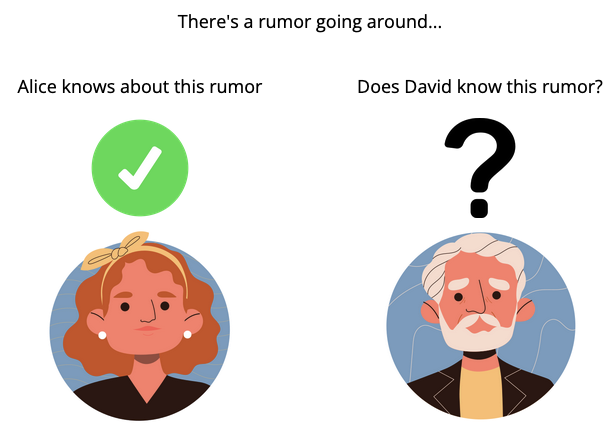
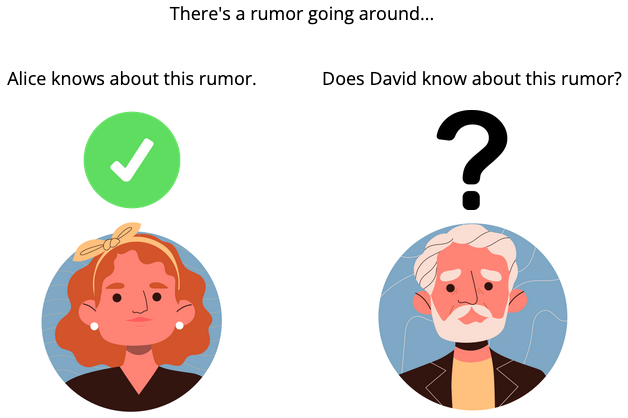
Updated instruction text

diff --git a/constants.js b/constants.js
@@ -4,12 +4,12 @@ const consentText = `<p class="consent-text" style="text-align: center"><strong>
 
 <p class="consent-text"><strong>TIME INVOLVEMENT:</strong> Your participation will take approximately 10 minutes.</p>
 
-<p class="consent-text"><strong>PAYMENTS:</strong> You will receive $1.70 as payment for your participation, as well as a bonus of up to $0.50 depending on your performance.</p>
+<p class="consent-text"><strong>PAYMENTS:</strong> You will receive $1.70 as payment for your participation, as well as a bonus of up to $0.40 depending on your performance.</p>
 
 <p class="consent-text"><strong>PRIVACY AND CONFIDENTIALITY:</strong> The risks associated with this study are minimal. Study data will be stored securely, in compliance with Stanford University standards, minimizing the risk of confidentiality breach. Your individual privacy will be maintained during the research and in all published and written data resulting from the study.</p>
 
 <p class="consent-text"><strong>CONTACT INFORMATION:</strong></p>
-<p class="consent-text"><emph>Questions:</emph> If you have any questions, concerns or complaints about this research, its procedures, risks and benefits, contact <strong>Ben Prystawski</strong> (<a href="mailto://benpry@stanford.edu">benpry@stanford.edu</a>) the Protocol Director, Noah Goodman (ngoodman@stanford.edu).</p>
+<p class="consent-text"><emph>Questions:</emph> If you have any questions, concerns or complaints about this research, its procedures, risks and benefits, contact <strong>Ben Prystawski</strong> (<a href="mailto://benpry@stanford.edu">benpry@stanford.edu</a>) or the Protocol Director, Noah Goodman (ngoodman@stanford.edu).</p>
 
 <p class="consent-text"><strong>Independent Contact:</strong> If you are not satisfied with how this study is being conducted, or if you have any concerns, complaints, or general questions about the research or your rights as a participant, please contact the Stanford Institutional Review Board (IRB) to speak to someone independent of the research team at 650-723-2480 or toll free at 1-866-680-2906, or email at irbnonmed@stanford.edu. You can also write to the Stanford IRB, Stanford University, 1705 El Camino Real, Palo Alto, CA 94306.</p>
 
@@ -17,17 +17,28 @@ const consentText = `<p class="consent-text" style="text-align: center"><strong>
 
 <p class="consent-text">If you agree to participate in this research, please click “I agree” below.</p>`;
 
-const instructionPages = [
-  `<p class='instructions-text'>This is an experiment investigating how people learn and reason.</p>
-  <p class='instructions-text'>In the experiment, there is a population of five people: Alice, Bob, Charlie, Daniel, and Eve. Many rumors spread among these people. Some people talk with each other a lot and other people never talk with each other, so <strong>knowing whether one person knows a rumor tells you about whether other people know it</strong>. Your job is to learn the pattern of who shares information with whom from these rumors.</p>
-  <p class='instructions-text'>For each rumor, you will see a pair of people and whether they know about the rumor or not. Here is an example of what observing a rumor looks like:</p>
-  <img src="assets/example-rumor.png">`,
-  `<p class='instructions-text'>After observing some rumors, you will be tested on new rumors. You will see whether one person knows a rumor and asked to predict whether another person knows it. Here is an example of being asked to predict whether someone knows a rumor:</p>
-  <img src="assets/example-test.png">
-  <p class="instructions-text">You should press "y" if you think the person knows the rumor and "n" if you think the person does not know the rumor.</p>
-  <p class="instructions-text">You will earn a bonus of <strong>1¢ for every correct answer.</strong>
-  <p class="instructions-text">Press "Next" to begin observing rumors.</p>`,
-];
+const getInstructionPages = (condition) => {
+  const instructionPages = [
+    `<p class='instructions-text'>This is an experiment investigating how people learn and reason. In the experiment there is a population of five people: Alice, Bob, Charlie, Daniel, and Eve. Many rumors spread among these people.</p>
+    <p class='instructions-text'>Some people talk with each other a lot and other people never talk with each other, so <strong>knowing whether one person knows about a rumor tells you about who else knows about it</strong>. Your job is to learn the pattern of who shares information with whom from these rumors.</p>
+    <p class='instructions-text'>For each rumor, you will see a pair of people and whether they know about the rumor or not. Here is an example of observing a rumor:</p>
+    <img src="assets/example-rumor.png" style="width: 500px">`,
+    `<p class='instructions-text'>After observing some rumors, you will be tested on new rumors. You will see whether one person knows about a rumor and be asked to predict whether another person knows about it. Here is an example of being asked to predict whether someone knows about a rumor:</p>
+    <img src="assets/example-test.png" style="width: 500px">
+    <p class="instructions-text">You should press "y" if you think the person with the question mark over their head knows the rumor and "n" if you think they do not.</p>`,
+  ];
+
+  if (condition == "speeded") {
+    instructionPages[1] = instructionPages[1].concat(
+      "<p class='instructions-text'>You will only have <strong>3 seconds</strong> to answer to each question, so you should make sure to answer quickly.</p>",
+    );
+  }
+  instructionPages[1] = instructionPages[1]
+    .concat(`<p class="instructions-text">You will earn a bonus of <strong>1¢ for every correct answer.</strong></p>
+<p class="instructions-text">Press "Next" to begin observing rumors.</p>`);
+
+  return instructionPages;
+};
 
 const doneLearningPages = [
   "<p class='instructions-text'>You have finished observing rumors. Press 'Next' to begin predicting who knows about new rumors.</p>",
@@ -44,7 +55,7 @@ const names = {
 const stimulusSentences = {
   1: "%NAME% knows about this rumor.",
   0: "%NAME% does not know about this rumor.",
-  "?": "Does %NAME% know this rumor?",
+  "?": "Does %NAME% know about this rumor?",
 };
 
 const stimulusTemplate = `

diff --git a/experiment.js b/experiment.js
@@ -32,7 +32,7 @@ function compileTimeline(condition) {
   };
   const instructions = {
     type: jsPsychInstructions,
-    pages: instructionPages,
+    pages: getInstructionPages(condition),
     show_clickable_nav: true,
   };
 

diff --git a/README.md b/README.md
@@ -1,2 +1,9 @@
-# local-stat-learning
-A statistical learning experiment where people need to chain together local statistical dependencies that they learn well
+# Locally-structured statistical learning experiment
+
+This is code for a statistical learning experiment where people need to chain together local statistical dependencies that they learn well. It is framed as a series of rumors spreading through a population. Participants can only see whether two people in the population know about a rumor at a time, then they need to make predictions about whether one person knows about a rumor based on whether someone else does.
+
+This experiment relies on [JsPsych 7](https://www.jspsych.org/7.3/). Unfortunately, the timer in the speeded condition does not yet work on Firefox.
+
+![](./assets/example-test.png)
+
+The cartoon people used in this experience are from [People stickers created by Stickers - Flaticon](https://www.flaticon.com/free-stickers/people)
